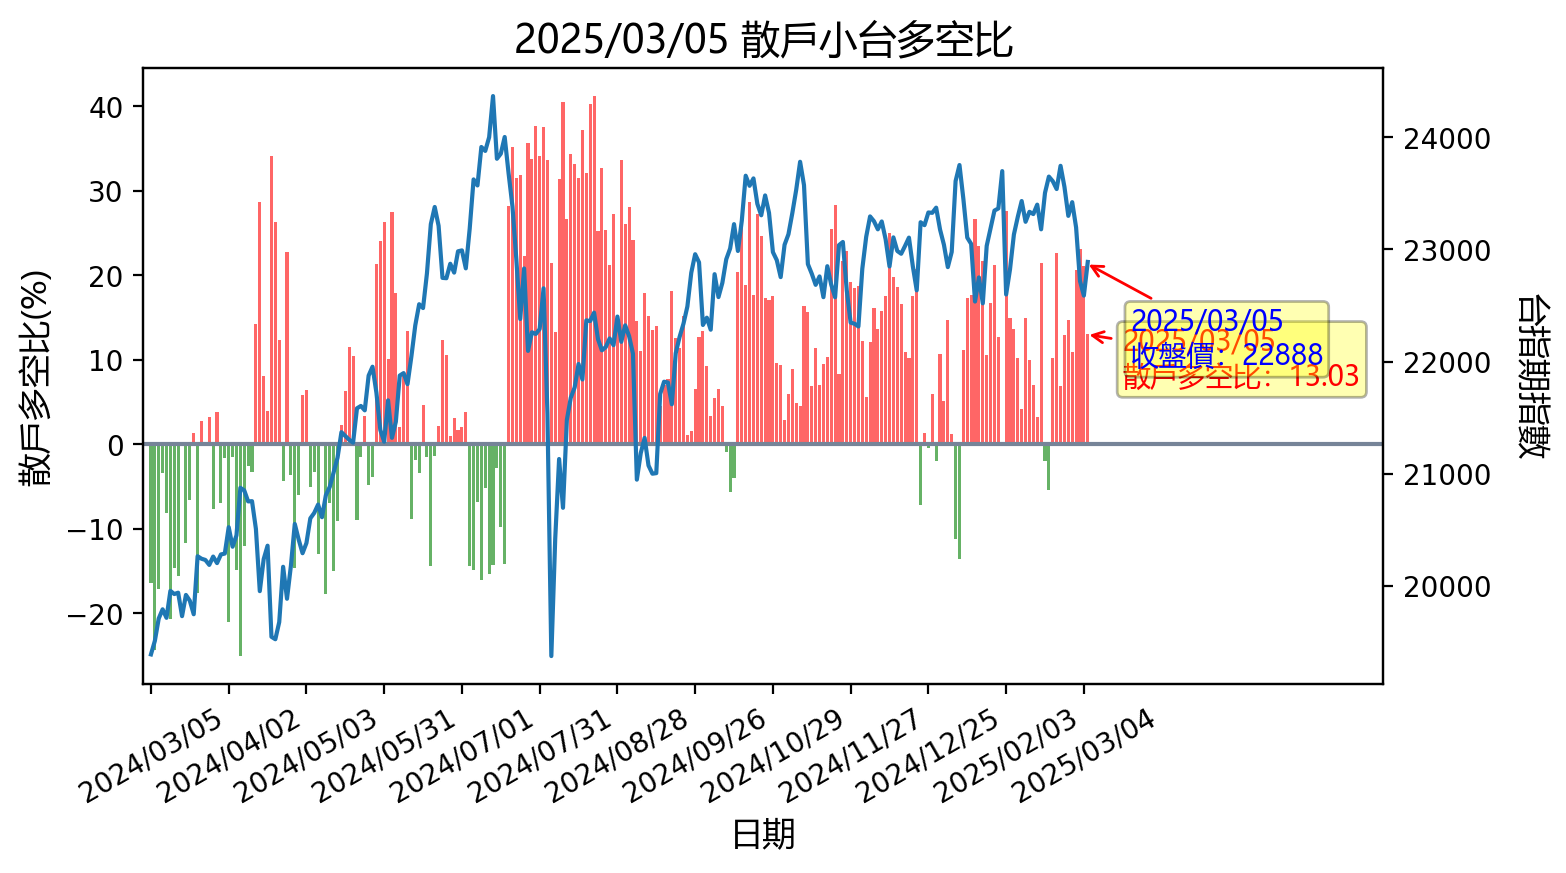
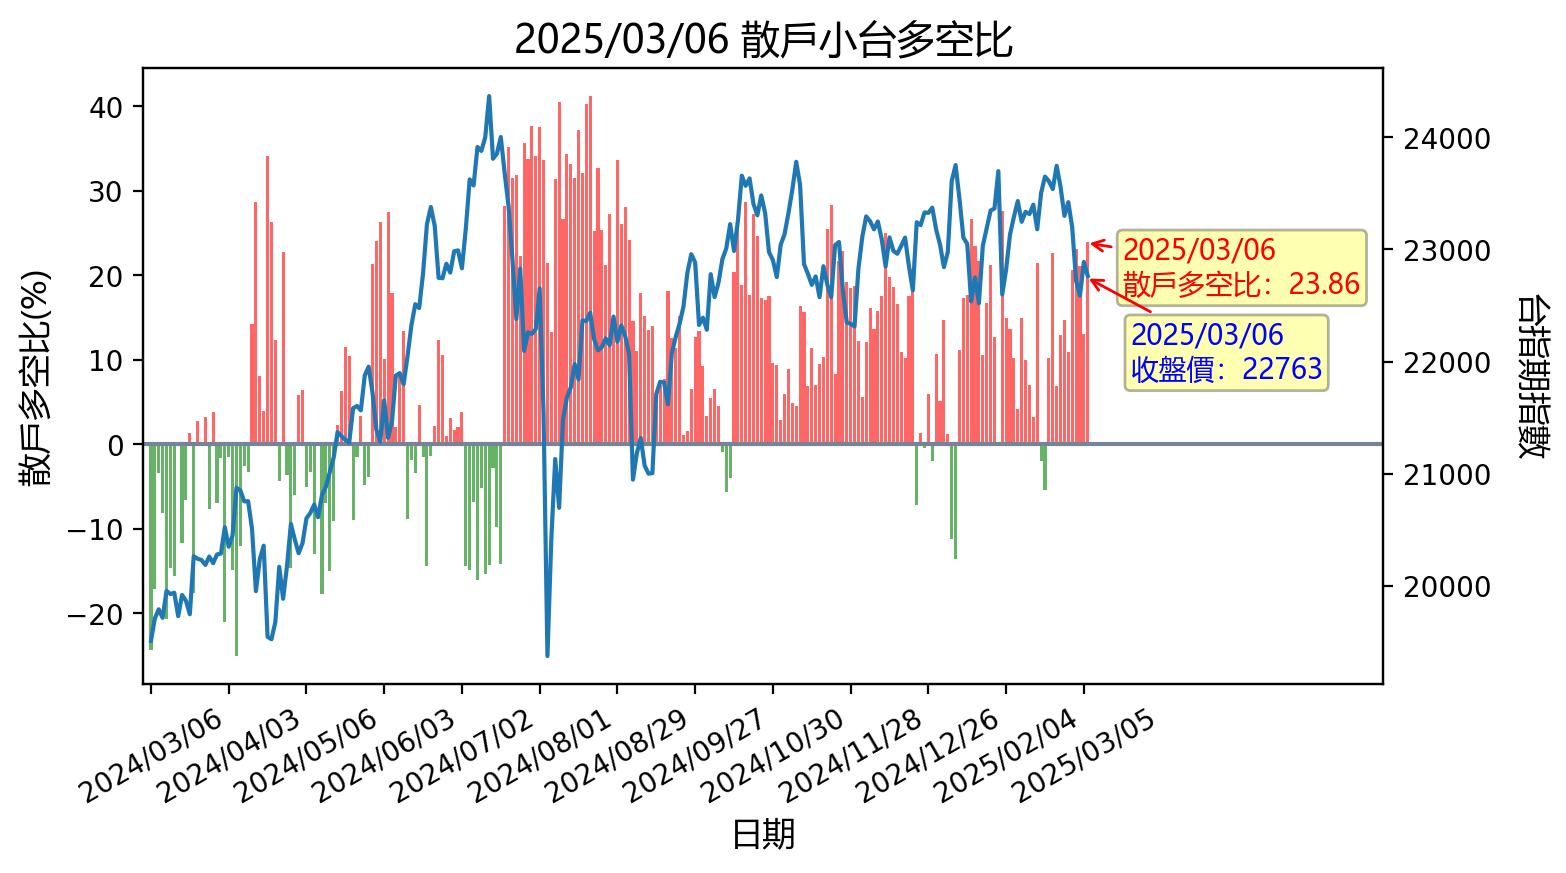
更新時間: Thu Mar  6 16:34:55 CST 2025

diff --git a/README.md b/README.md
@@ -1,12 +1,12 @@
-## 20250305 台指期「預估換倉成本」
+## 20250306 台指期「預估換倉成本」
 ![](images/txfcost.png)
 
-## 20250305 台指期「散戶小台多空比」
+## 20250306 台指期「散戶小台多空比」
 ![](images/bbiri.png)
 
-## 20250305 台指選擇權「Put/Call Ratios」
+## 20250306 台指選擇權「Put/Call Ratios」
 ![](images/pcratio.png)
 
-## 20250305 台指期「大額交易人」
+## 20250306 台指期「大額交易人」
 ![](images/blocktrade.png)
 
